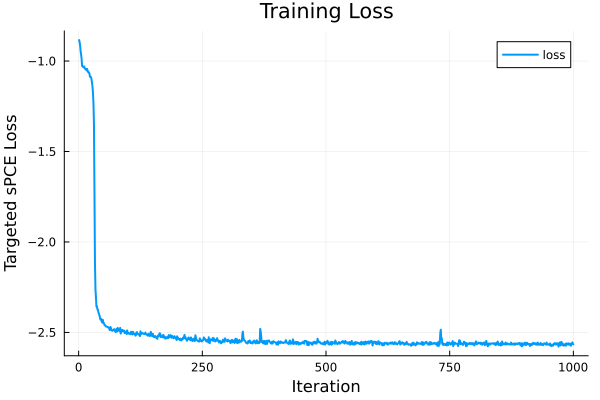
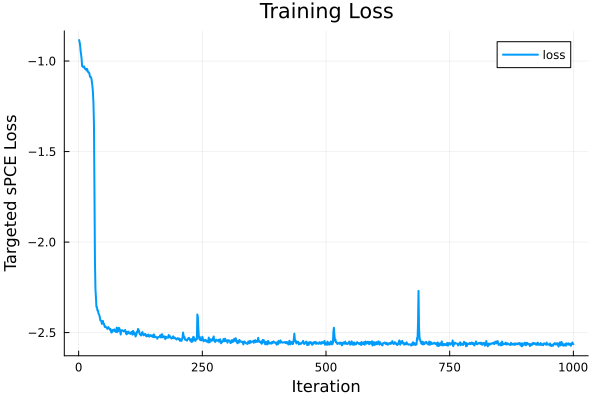
paper finalized except for monod and haldane

diff --git a/paper/main.tex b/paper/main.tex
@@ -5,7 +5,7 @@
 % Extended/compact toggle: pass \def\buildmode{cdc} or \def\buildmode{arxiv}
 % before \input{main}. Default (standalone build) is extended.
 \newif\ifextended
-\extendedtrue
+\extendedfalse
 \ifdefined\buildmode
   \def\buildmodecdc{cdc}
   \ifx\buildmode\buildmodecdc \extendedfalse \fi
@@ -36,7 +36,7 @@
 \begin{document}
 
 \title{Deep Adaptive Model-Based Design of Experiments\\
-\thanks{\ifextended Preliminary version. A six-page conference paper has been submitted to the 2026 IEEE Conference on Decision and Control (CDC). This extended version will be updated with final results.\else An extended version with proofs, training details, and ablation studies is available~\citep{strouwen2026extended}.\fi{} Code: \protect\url{https://github.com/arno-papers/CDC2026}.}
+\thanks{\ifextended This work has been submitted to the IEEE for possible publication. Copyright may be transferred without notice, after which this version may no longer be accessible. This is the extended version; a six-page conference paper has been submitted to the 2026 IEEE Conference on Decision and Control (CDC).\else An extended version with proofs, training details, and ablation studies is available~\citep{strouwen2026extended}.\fi{} Code: \protect\url{https://github.com/arno-papers/CDC2026}.}
 }
 
 \author{\IEEEauthorblockN{Arno Strouwen}
@@ -53,7 +53,7 @@ sebastian.mc95@proton.me}
 \maketitle
 
 \begin{abstract}
-Model-based design of experiments (MBDOE) is essential for efficient parameter estimation in nonlinear dynamical systems. However, conventional adaptive MBDOE requires costly posterior inference and design optimization between each experimental step, precluding real-time applications. We address this by combining Deep Adaptive Design (DAD), which amortizes sequential design into a neural network policy trained offline, with differentiable mechanistic models. For dynamical systems with known governing equations but uncertain parameters, we extend sequential contrastive training objectives to handle nuisance parameters and propose a transformer-based policy architecture that respects the temporal structure of dynamical systems. We demonstrate the approach on four systems of increasing complexity: a fed-batch bioreactor with Monod kinetics, a Haldane bioreactor with uncertain substrate inhibition, a two-compartment pharmacokinetic model with nuisance clearance parameters, and a DC motor for real-time deployment.
+Model-based design of experiments (MBDOE) is essential for efficient parameter estimation in nonlinear dynamical systems. However, conventional adaptive MBDOE requires costly posterior inference and design optimization between each experimental step, precluding real-time applications. We address this by combining Deep Adaptive Design (DAD), which amortizes sequential design into a neural network policy trained offline, with differentiable mechanistic models. For dynamical systems with known governing equations but uncertain parameters, we extend sequential contrastive training objectives to handle nuisance parameters and propose a transformer-based policy architecture that respects the temporal structure of dynamical systems. We demonstrate the approach on four systems of increasing complexity: a fed-batch bioreactor with Monod kinetics, a Haldane bioreactor with uncertain substrate inhibition, a two-compartment pharmacokinetic model with nuisance clearance parameters, and a DC motor for real-time deployment. On the Monod bioreactor, the adaptive policy reduces posterior RMSE by about 30\% versus the best static design; on the DC motor, it evaluates in $24~\mu$s per step versus $7.4~\mathrm{ms}$ for non-amortized adaptive design, enabling real-time deployment.
 \end{abstract}
 
 \begin{IEEEkeywords}
@@ -74,8 +74,8 @@ Our contributions are:
 \begin{itemize}
 \item We formulate adaptive MBDOE for dynamical systems where the model structure is known, training the policy end-to-end by differentiating through the ODE solver and observation model.
 \item We extend the sPCE bound to handle nuisance parameters, enabling targeted inference by marginalizing over nuisance parameters such as measurement noise.
-\item We introduce a transformer-based policy architecture that respects temporal ordering in dynamical systems, replacing the permutation-invariant deep set architecture of the original DAD framework.
-\item We demonstrate the methodology on four examples: a Monod bioreactor, a Haldane bioreactor with uncertain substrate inhibition, a pharmacokinetic model with nuisance adaptation, and a DC motor for real-time deployment.
+\item We retain the transformer-based policy architecture from DAD and adapt it to dynamical systems by making temporal order explicit through positional encoding, rather than treating design-outcome pairs as permutation invariant.
+\item We demonstrate the methodology on four examples: a Monod bioreactor, a Haldane bioreactor illustrating adaptation to target parameters, a pharmacokinetic model illustrating nuisance adaptation together with a brief architecture ablation, and a DC motor for real-time deployment; on the Monod bioreactor the adaptive policy reduces posterior RMSE by about 30\% relative to the best static design, and on the DC motor it evaluates in $24~\mu$s per step versus $7.4~\mathrm{ms}$ for non-amortized adaptive design.
 \end{itemize}
 
 \section{Model}
@@ -94,7 +94,6 @@ The observation noise covariance $\Sigma(x(t_k), \theta_N) \in \mathbb{R}^{q \ti
 We assume a fixed experimental schedule with known measurement times $0 < t_1 < \cdots < t_K$ and piecewise-constant inputs, $u(t)=u_k$ for $t \in [t_{k-1}, t_k)$.
 The design goal is to choose the input profile $u(t)$ (equivalently, the sequence $u_{1:K}$) to maximize the information gained about $\theta_T$.
 
-\label{sec:monod}
 We instantiate this framework on a well-mixed fed-batch bioreactor~\citep{versyck}, with state $x = (C_s, C_x, V)$, input $u = Q_{in}$, and kinetic parameters $\theta_T = (\mu_{\max}, K_s)$.
 We consider a $14$-hour experiment with measurements collected every hour, so $K=14$ and $t_k = k\,\mathrm{h}$ for $k=1,\ldots,K$ (with $t_0=0\,\mathrm{h}$).
 We choose a feed rate $Q_{in,k}$ that is held constant on $[(k-1)\,\mathrm{h}, k\,\mathrm{h})$.
@@ -136,20 +135,19 @@ This is equivalent to maximizing the targeted expected information gain (EIG), t
 The EIG is intractable to compute in general because $p(y|u)$ requires integrating over the full parameter space. Similarly, obtaining the posterior $p(\theta_T|y,u)$ requires the partial marginal likelihood $p(y|\theta_T,u) = \int p(y|\theta_T, \theta_N, u)\,p(\theta_N|\theta_T)\,d\theta_N$, which integrates over the nuisance parameters.
 
 The formulation above is a \emph{static} design: all inputs $u_{1:K}$ are chosen upfront by maximizing the EIG over the full trajectory.
-When $K$ experiments are conducted sequentially, however, one can do better.
-An \emph{adaptive} design instead selects $u_k$ after observing outcomes $y_{1:k-1}$, exploiting the information already gathered.
-The optimal adaptive criterion has a nested structure: the choice of $u_1$ anticipates that $u_2$ will be chosen optimally given $y_1$, which in turn anticipates optimal choice of $u_3$ given $y_{1:2}$, and so on. This is a dynamic programming problem over the space of possible observation sequences.
-The nested criterion is equivalent to optimizing over \emph{policies}---decision rules $\pi_k(h_{k-1})$ that map experimental histories to inputs\ifextended{} (see Appendix~\ref{sec:policy_equiv} for a formal proof)\fi. Once an optimal policy is available, online deployment requires only evaluating the decision rule at each step, avoiding repeated optimization during the experiment. For continuous observation spaces, tabular dynamic programming is infeasible; instead, the policy is parameterized by a neural network and trained offline via Monte Carlo simulation, as we do here.
+In sequential experiments, however, the design should adapt to past observations.
+We therefore optimize over \emph{policies}---decision rules $\pi_k(h_{k-1})$ that map the experimental history $h_{k-1} = ((u_1, y_1), \ldots, (u_{k-1}, y_{k-1}))$ to the next input $u_k$.
+This policy formulation is equivalent to the usual nested adaptive criterion.\ifextended{} See Appendix~\ref{sec:policy_equiv} for a formal proof. \else{} See the extended version~\citep{strouwen2026extended} for a formal proof. \fi
+Once an optimal policy is available, online deployment requires only evaluating the decision rule at each step, avoiding repeated optimization during the experiment. For continuous observation spaces, tabular dynamic programming is infeasible; instead, the policy is parameterized by a neural network and trained offline via Monte Carlo simulation, as we do here.
 
-Let $\theta = (\theta_T, \theta_N)$ denote all unknown parameters,
-$h_k = ((u_1, y_1), \ldots, (u_k, y_k))$ the experimental history, and $u_k = \pi(h_{k-1})$ the policy.
+Let $\theta = (\theta_T, \theta_N)$ denote all unknown parameters, $h_k = ((u_1, y_1), \ldots, (u_k, y_k))$ the experimental history, and $u_k = \pi(h_{k-1})$ the policy.
 The targeted EIG from the full sequential experiment is:
 \begin{equation}
 \mathcal{I}_K^{\text{tgt}}(\pi) = \E_{p(\theta)p(h_K|\theta,\pi)}\left[\log \frac{p(h_K|\theta_T,\pi)}{p(h_K|\pi)}\right] = I(\theta_T; h_K | \pi),
 \end{equation}
 where $p(h_K|\theta_T, \pi) = \int p(h_K|\theta, \pi)\, p(\theta_N|\theta_T) \, d\theta_N$ and $p(h_K|\pi) = \int p(h_K|\theta,\pi)\,p(\theta)\,d\theta$.
 
-Direct optimization of $\mathcal{I}_K^{\text{tgt}}(\pi)$ is intractable due to these marginals. \citet{foster2021} introduced sequential Prior Contrastive Estimation (sPCE), which uses contrastive samples to obtain a tractable lower bound on the sequential EIG. We extend their framework to handle nuisance parameters, yielding a bound on the targeted EIG.
+Direct optimization of $\mathcal{I}_K^{\text{tgt}}(\pi)$ is intractable due to these marginals. \citet{foster2021} introduced sequential Prior Contrastive Estimation (sPCE), which uses contrastive samples to obtain a tractable lower bound on the sequential EIG. We extend their framework to handle nuisance parameters, yielding a bound on the targeted EIG. Intuitively, the objective rewards policies whose induced histories make the true target parameters easier to distinguish from contrastive alternatives after marginalizing over nuisance uncertainty.
 
 \begin{theorem}[Targeted sPCE]
 \label{thm:targeted_spce_main}
@@ -167,7 +165,7 @@ Here $\phi$ denotes the trainable parameters of the policy network.
 The policy is trained offline; at deployment, computing $u_k$ requires only a forward pass.
 
 \subsection{Training}
-Training maximizes the targeted contrastive objective $\hat{\mathcal{L}}_K^{\text{tgt}}$ via stochastic gradient ascent with Adam on $\phi$. Since observations depend on $\phi$ through the policy, the expectation is over $\phi$-dependent random variables. For Gaussian observation models, we apply the reparameterization trick: writing $y_k = \mu_k + \Sigma_k^{1/2}\varepsilon_k$ with $\varepsilon_k \sim \mathcal{N}(0, I)$ independent of $\phi$ allows the gradient to pass inside the expectation:
+Training maximizes the targeted contrastive objective $\hat{\mathcal{L}}_K^{\text{tgt}}$ by stochastic gradient ascent with Adam on $\phi$. Since observations depend on $\phi$ through the policy, the expectation is over $\phi$-dependent random variables. For Gaussian observation models, we apply the reparameterization trick: writing $y_k = \mu_k + \Sigma_k^{1/2}\varepsilon_k$ with $\varepsilon_k \sim \mathcal{N}(0, I)$ independent of $\phi$ allows the gradient to pass inside the expectation:
 \begin{equation}
 \begin{aligned}
 \frac{d\hat{\mathcal{L}}_K^{\text{tgt}}}{d\phi}
@@ -180,7 +178,7 @@ p(h_K|\theta^{(\ell)}, \pi_\phi)\Big)
 \end{aligned}
 \end{equation}
 where the expectation is approximated with a minibatch of $B$ independent episodes (Algorithm~\ref{algo:DAD}).
-Each episode draws a ground-truth sample $\theta^{(0)} \sim p(\theta)$ that generates the trajectory, $L$ contrastive samples $\theta^{(1:L)} \sim p(\theta)$ for the denominator, and $M$ nuisance samples $\tilde{\theta}_N^{(1:M)} \sim p(\theta_N|\theta_T^{(0)})$ for the numerator---sharing the target parameters $\theta_T^{(0)}$ of the ground truth. Evaluating each likelihood in $A$ and $B$ requires a full ODE solve, giving $L + M + 2$ solves per episode.
+Each episode draws a ground-truth sample $\theta^{(0)} \sim p(\theta)$ that generates the trajectory, $L$ contrastive samples $\theta^{(1:L)} \sim p(\theta)$ for the denominator, and $M$ nuisance samples $\tilde{\theta}_N^{(1:M)} \sim p(\theta_N|\theta_T^{(0)})$ for the numerator, all sharing the target parameters $\theta_T^{(0)}$ of the ground truth. This requires $L + M + 2$ ODE solves per episode: one rollout to generate $h_K$, $M$ nuisance-conditioned likelihood evaluations for the numerator, and $L + 1$ likelihood evaluations for the denominator.
 
 \begin{algorithm}[t]
 \caption{Targeted Deep Adaptive Design for MBDOE}
@@ -213,13 +211,12 @@ Each episode draws a ground-truth sample $\theta^{(0)} \sim p(\theta)$ that gene
 \subsection{Choosing $L$, $M$, and $B$}
 The targeted sPCE objective depends on the number of contrastive samples $L$ and nuisance samples $M$, while the optimizer uses a minibatch size $B$ to form stochastic gradient estimates.
 These hyperparameters trade off bound tightness, estimator variance, and computational cost.
-We provide a brief discussion and asymptotic guidance under a fixed compute budget in
-\ifextended Appendix~\ref{sec:budget_stub}.\else the extended version~\citep{strouwen2026extended}.\fi
+\ifextended See Appendix~\ref{sec:budget_stub} for a brief discussion and asymptotic guidance under a fixed compute budget.\else{} See the extended version~\citep{strouwen2026extended} for a brief discussion and asymptotic guidance under a fixed compute budget.\fi
 
 \subsection{Network Architecture}
-The original DAD framework~\citep{foster2021} uses a deep set architecture that exploits permutation invariance of design-outcome pairs. However, for dynamical systems, temporal order matters: the state at step $k$ depends on all previous inputs and observations.
+Following DAD~\citep{foster2021}, we use a transformer-based policy architecture. For dynamical systems, however, the key additional requirement is to represent temporal order explicitly, since earlier inputs affect later states and therefore later observations.
 
-We therefore employ a transformer architecture~\citep{vaswani2017attention} with causal attention and sinusoidal positional encodings. The history $((u_1, y_1), \ldots, (u_{k-1}, y_{k-1}))$ is embedded as a sequence, and the policy outputs the next input based on the final hidden state:
+We therefore augment the history with sinusoidal positional encodings and use causal attention to map $((u_1, y_1), \ldots, (u_{k-1}, y_{k-1}))$ to the next input:
 \begin{equation}
 u_k = \pi_\phi(h_{k-1}) = F_{\phi_2}(\text{Transformer}_{\phi_1}(h_{k-1})),
 \end{equation}
@@ -242,7 +239,7 @@ We apply the framework to four systems of increasing complexity.
 
 \begin{table}[t]
 \centering
-\caption{Monod bioreactor: targeted sPCE scores (mean $\pm$ SEM, $n=500$; higher is better) and posterior RMSE ($\times 10^3$, $n=2000$; lower is better).\ifextended{} The BIM baseline is detailed in Appendix~\ref{sec:bim}.\else{} The BIM baseline is detailed in the extended version~\citep{strouwen2026extended}.\fi}
+\caption{Monod bioreactor: targeted sPCE scores (mean $\pm$ SEM, $n=1000$; higher is better) and posterior RMSE ($\times 10^3$, $n=5000$; lower is better).\ifextended{} The BIM baseline is detailed in Appendix~\ref{sec:bim}.\else{} The BIM baseline is detailed in the extended version~\citep{strouwen2026extended}.\fi}
 \label{tab:spce}
 \begin{tabular}{@{}lccc@{}}
 \hline
@@ -256,7 +253,7 @@ Design strategy & sPCE score & \multicolumn{2}{c}{RMSE ($\times 10^3$)} \\
 \begin{figure}[t]
 \centering
 \includegraphics[width=\columnwidth]{figures/monod_posterior.png}
-\caption{Posterior mean estimates ($\hat{\mu}_{\max}$, $\hat{K}_s$) across 2000 trials for three design strategies. Convex hulls indicate the spread of posterior means; the adaptive policy yields the most concentrated estimates around the true values.}
+\caption{Posterior mean estimates ($\hat{\mu}_{\max}$, $\hat{K}_s$) across 5000 trials for three design strategies. Convex hulls (90\% closest to median) indicate the spread of posterior means; the adaptive policy yields the most concentrated estimates around the true values.}
 \label{fig:posterior}
 \end{figure}
 
@@ -267,19 +264,12 @@ Design strategy & sPCE score & \multicolumn{2}{c}{RMSE ($\times 10^3$)} \\
 \label{fig:haldane}
 \end{figure*}
 
-\begin{figure*}[t]
-\centering
-\includegraphics[width=\textwidth]{figures/pharma_nuisance.png}
-\caption{PK model rollouts (20 per scenario, shared absorption parameters $k_a$, $k_{tr}$ at midrange). Blue: slow elimination ($CL = 1.0$~L/hr, $Q_d = 0.5$~L/hr); red: fast elimination ($CL = 5.0$~L/hr, $Q_d = 3.0$~L/hr). Left: central concentration $C_c = A_c/V_C$. Middle: peripheral concentration $C_p = A_p/V_P$. Right: infusion rate $R_\text{inf}$ (design). Under fast elimination, the policy doses earlier and more frequently to maintain informative drug levels; under slow elimination, drug persists longer and the policy delays dosing.}
-\label{fig:pharma}
-\end{figure*}
-
 \paragraph{Monod bioreactor.}
-The adaptive policy is trained on the Monod bioreactor (Section~\ref{sec:monod}) in approximately 1000 iterations\ifextended{} (Appendix~\ref{sec:training_details})\else{} (see the extended version~\citep{strouwen2026extended} for training details)\fi.
+The adaptive policy is trained on the Monod bioreactor in approximately 1000 iterations\ifextended{} (Appendix~\ref{sec:training_details})\else{} (see the extended version~\citep{strouwen2026extended} for training details)\fi.
 Fig.~\ref{fig:dynamics} shows representative rollouts: the adaptive policy varies its feed profile per rollout in response to observations, while the static designs apply a fixed sequence regardless of the outcome.
-Table~\ref{tab:spce} compares the adaptive policy against two static baselines---a classical Bayesian D-optimal design (BIM) and a static design optimized with the same sPCE objective. The adaptive policy significantly outperforms both on sPCE score ($p < 0.04$, paired $t$-tests) and reduces posterior RMSE by approximately 30\% relative to the best static design.
+Table~\ref{tab:spce} compares the adaptive policy against two static baselines---a classical Bayesian D-optimal design (BIM) and a static design optimized with the same sPCE objective. The adaptive policy significantly outperforms both on sPCE score ($p < 0.001$, paired $t$-tests) and reduces posterior RMSE by approximately 30\% relative to the best static design.
 Fig.~\ref{fig:posterior} confirms that the adaptive policy yields the most concentrated posterior estimates around the true parameter values.
-A handful of adaptive trials (7/2000, the outliers in Fig.~\ref{fig:posterior}) yield poor posteriors: rare misleading early observations steer the policy into producing no pumping action, driving substrate to zero---a guaranteed suboptimal design. A larger training budget would expose the policy to more such rare noise patterns and remedy this. All reported statistics include these trials without exclusion.
+A handful of adaptive trials (10/5000, the outliers in Fig.~\ref{fig:posterior}) yield poor posteriors: rare misleading early observations steer the policy into producing no pumping action, driving substrate to zero---a guaranteed suboptimal design. A larger training budget would expose the policy to more such rare noise patterns and remedy this. All reported statistics include these trials without exclusion.
 
 \paragraph{Haldane substrate inhibition.}
 This example shares the Monod bioreactor setup (same states, feed rate design $Q_{in}$, substrate observation $C_s$) but replaces the growth rate with Haldane kinetics: $\mu = \mu_{\max} C_s / (K_s + C_s + C_s^2/K_i)$, adding substrate inhibition. We set $\alpha = 1/K_i$ as the sole target with a uniform prior $\alpha \sim \text{Uniform}(0, 0.15)$, and treat $\mu_{\max}$, $K_s$, $\sigma$, $C_{x,0}$ as tightly bounded nuisance parameters (e.g., $\mu_{\max} \in [0.39, 0.41]$, $K_s \in [0.44, 0.46]$), so the sPCE objective focuses on discriminating whether inhibition is present ($\alpha = 0$ recovers Monod).
@@ -297,10 +287,17 @@ A two-compartment PK model with transit absorption describes drug distribution b
 \dot{A}_p &= \tfrac{Q_d}{V_C} A_c - \tfrac{Q_d}{V_P} A_p,
 \end{aligned}
 \end{equation}
-where $R_\text{inf}$ is the controllable infusion rate (design input). The target parameters are the absorption rates $\theta_T = (k_a, k_{tr})$, while $\theta_N = (CL, Q_d, \sigma_{\text{prop}}, \sigma_{\text{add}})$ are nuisance, including patient-specific clearance. The observation is central concentration $C_c = A_c/V_C$ with combined proportional and additive noise: $y_k \sim \mathcal{N}(C_c, (\sigma_{\text{prop}} C_c)^2 + \sigma_{\text{add}}^2)$,
-with uniform priors $k_a, k_{tr} \in [0.5, 3.0]$, $CL \in [1.0, 5.0]$, $Q_d \in [0.5, 3.0]$, $\sigma_{\text{prop}} \in [0.05, 0.20]$, and $\sigma_{\text{add}} \in [0.01, 0.10]$.
-Fig.~\ref{fig:pharma} shows the policy adapts its dosing schedule to the patient's elimination profile: fast elimination clears drug quickly, prompting earlier and more frequent doses to maintain informative concentrations, while slow elimination allows delayed dosing. This nuisance adaptation emerges from the targeted sPCE objective, which marginalizes over $(CL, Q_d)$ during training---the policy learns that the optimal schedule for probing absorption depends on how quickly the patient clears the drug.
-An architecture ablation on this example confirms both transformer components matter: removing positional encoding drops sPCE by $0.35$~nats ($t{=}12.1$); replacing attention with a comparably-sized MLP costs $0.03$~nats ($t{=}2.2$)\ifextended{} (Appendix~\ref{sec:ablation})\else{} (see the extended version~\citep{strouwen2026extended})\fi.
+where $R_\text{inf}$ is the controllable infusion rate (design input). The target parameters are the absorption rates $\theta_T = (k_a, k_{tr})$, while $\theta_N = (CL, Q_d, \sigma_{\text{prop}}, \sigma_{\text{add}})$ are nuisance, including patient-specific clearance. The observation is central concentration $C_c = A_c/V_C$ with combined proportional and additive noise: $y_k \sim \mathcal{N}(C_c, (\sigma_{\text{prop}} C_c)^2 + \sigma_{\text{add}}^2)$.
+We simulate a $24$-hour experiment with hourly observations ($K = 24$), using uniform priors $k_a, k_{tr} \in [0.5, 3.0]$, $CL \in [1.0, 5.0]$, $Q_d \in [0.5, 3.0]$, $\sigma_{\text{prop}} \in [0.05, 0.20]$, and $\sigma_{\text{add}} \in [0.01, 0.10]$.
+Fig.~\ref{fig:pharma} provides a qualitative illustration that nuisance parameters can materially change the optimal dosing schedule. After a common initial infusion pulse, the policy resumes dosing earlier under fast elimination and later under slow elimination, reflecting how quickly the drug is cleared. This nuisance adaptation emerges from the targeted sPCE objective, which marginalizes over $(CL, Q_d)$ during training, so the policy learns that the dosing schedule most informative for probing absorption depends on the elimination profile.
+A brief architecture ablation on this example suggests that explicit temporal encoding is the main architectural ingredient: removing positional encoding drops sPCE by $0.35$~nats ($t{=}12.1$), while replacing attention with a comparably-sized MLP causes a smaller drop of $0.03$~nats ($t{=}2.2$)\ifextended{} (Appendix~\ref{sec:ablation})\else{} (see the extended version~\citep{strouwen2026extended})\fi.
+
+\begin{figure*}[t]
+\centering
+\includegraphics[width=\textwidth]{figures/pharma_nuisance.png}
+\caption{PK model rollouts (20 per scenario, shared absorption parameters $k_a$, $k_{tr}$ at midrange). Blue: slow elimination ($CL = 1.0$~L/hr, $Q_d = 0.5$~L/hr); red: fast elimination ($CL = 5.0$~L/hr, $Q_d = 3.0$~L/hr). Left to right: central concentration $C_c = A_c/V_C$, peripheral concentration $C_p = A_p/V_P$, and infusion rate $R_\text{inf}$ (design). After a common initial infusion pulse, the policy resumes dosing earlier under fast elimination, whereas under slow elimination it delays redosing because the drug persists longer.}
+\label{fig:pharma}
+\end{figure*}
 
 \paragraph{DC motor.}
 A DC motor with state $(\omega, i)$ (angular velocity, current) follows
@@ -310,14 +307,14 @@ L \frac{di}{dt} = V_{in} - Ri - k\omega, \quad J \frac{d\omega}{dt} = ki - f\ome
 with known resistance $R = 0.5\,\Omega$ and inductance $L = 4.5\,$mH.
 The design input is voltage $V_{in} \in [0, 10]\,$V and the observation is angular velocity $\omega$ with additive Gaussian noise.
 The experiment lasts $100\,$ms ($K = 10$ steps at $\Delta t = 10\,$ms), with target parameters $\theta_T = (k, J)$ (motor constant, inertia), nuisance $\theta_N = (f, \sigma)$ (friction, noise), and uniform priors $k \in [0.3, 0.7]$, $J \in [0.01, 0.04]$, $f \in [0.005, 0.02]$, $\sigma \in [0.5, 2.0]$.
-We compare the amortized adaptive policy against an adaptive Bayesian D-optimal baseline that re-optimizes the design at each step using the current posterior (adaptive BIM).
-Table~\ref{tab:motor} shows that the amortized policy outperforms adaptive BIM on both sPCE score and posterior RMSE, while evaluating orders of magnitude faster: a single forward pass takes a median of $18\,\mu$s versus the seconds required for online posterior inference and re-optimization.
-Fig.~\ref{fig:timing} confirms that even the 99.9th percentile ($55\,\mu$s) remains $181\times$ below the $10\,$ms sampling interval, making real-time deployment feasible.
+We compare the amortized adaptive policy against an adaptive Bayesian D-optimal baseline that re-optimizes the design at each step using the current posterior mode (adaptive BIM)\ifextended{} (Appendix~\ref{sec:bim})\else{} (see the extended version~\citep{strouwen2026extended})\fi.
+Table~\ref{tab:motor} shows that the amortized policy outperforms adaptive BIM on both sPCE score and posterior RMSE. This is expected because the learned policy is trained against the full sequential objective, whereas adaptive BIM re-optimizes a myopic surrogate based on the current posterior mode. The amortized policy also evaluates orders of magnitude faster: a single forward pass takes a median of $24\,\mu$s versus $7.4\,$ms for online re-optimization.
+Fig.~\ref{fig:timing} confirms that even the 99.9th percentile ($79\,\mu$s) remains $126\times$ below the $10\,$ms sampling interval, making real-time deployment feasible.
 Note that this adaptive BIM baseline is already a deliberately simple strategy---myopic, with a Dirac posterior approximation and a 1D grid search---yet it already fails to run within the sampling interval by the later steps, as each FIM evaluation must differentiate through the growing history of design points.
 
 \begin{table}[t]
 \centering
-\caption{DC motor: adaptive sPCE policy vs.\ adaptive BIM (online re-optimization). sPCE scores (mean $\pm$ SEM; higher is better), posterior RMSE ($\times 10^3$; lower is better), and per-step wall time.}
+\caption{DC motor: adaptive sPCE policy vs.\ adaptive BIM (online re-optimization). sPCE scores (mean $\pm$ SEM, $n=500$; higher is better), posterior RMSE ($\times 10^3$, $n=500$; lower is better), and per-step wall time.}
 \label{tab:motor}
 \small
 \begin{tabular}{@{}lcccc@{}}
@@ -332,22 +329,18 @@ Note that this adaptive BIM baseline is already a deliberately simple strategy--
 \begin{figure}[t]
 \centering
 \includegraphics[width=\columnwidth]{figures/dcmotor_timing.png}
-\caption{Per-step computation time for the DC motor (500~rollouts). Boxes show IQR; whiskers span the 0.1--99.9th percentile. The adaptive BIM baseline (blue) requires online MAP estimation and grid search at each step, growing from ${\sim}1\,$ms at step~1 to ${\sim}10\,$ms by step~10 as the history lengthens---approaching and exceeding the $\Delta t = 10\,$ms sampling interval (dashed red). The amortized sPCE policy (purple) evaluates in ${\sim}22\,\mu$s regardless of step, remaining two orders of magnitude below real-time.}
+\caption{Per-step computation time (500~rollouts, single-threaded, AMD Ryzen~9 5900X). Boxes show IQR; whiskers the 0.1--99.9th percentile. Adaptive BIM (blue) grows from ${\sim}1\,$ms to ${\sim}13\,$ms, exceeding the $\Delta t = 10\,$ms sampling interval (dashed red). The amortized sPCE policy (purple) evaluates in ${\sim}24\,\mu$s regardless of step.}
 \label{fig:timing}
 \end{figure}
 
 \section{Conclusion}
 
 We have shown that combining deep adaptive design with differentiable mechanistic models enables real-time adaptive model-based design of experiments.
-The amortized policy outperforms static baselines and matches online re-optimization at a fraction of the computational cost, as demonstrated across four systems of increasing complexity.
+The amortized policy outperforms both static baselines and adaptive online re-optimization across four systems of increasing complexity.
 
-The policy is trained for a specific prior distribution; significant prior shifts require retraining.
-The current framework assumes the model structure is known---model misspecification is not addressed.
-Training requires GPU hours on a supercomputer, though deployment is lightweight (microseconds per forward pass).
-
-Combining the framework with our Bayesian model selection approach~\cite{strouwen2026modelselection} to handle model misspecification is a promising direction.
-Incorporating process noise via Bayesian filtering~\cite{strouwen2023adaptive} would further leverage the adaptive policy, as stochastic state drift makes real-time design adaptation particularly valuable.
-Deploying the trained policy on physical hardware with closed-loop feedback is a natural next step.
+Current limitations remain: the policy is trained for a specific prior distribution, significant prior shifts require retraining, model misspecification is not addressed, stochasticity is limited to the measurement equation, and training requires GPU hours on a supercomputer, although deployment is lightweight.
+Promising next steps are to combine the framework with Bayesian model selection~\cite{strouwen2026modelselection} for model uncertainty, extend the framework to process noise through Bayesian filtering~\cite{strouwen2023adaptive}, and deploy the learned policy on physical hardware with closed-loop feedback.
+Together, these extensions would move the framework closer to robust real-world adaptive experimentation.
 
 \section*{Acknowledgment}
 The resources and services used in this work were provided by the VSC (Flemish Supercomputer Center), funded by the Research Foundation -- Flanders (FWO) and the Flemish Government.

diff --git a/paper/tables/spce_table.tex b/paper/tables/spce_table.tex
@@ -1,4 +1,4 @@
-Adaptive policy & $\mathbf{3.10 \pm 0.05}$ & $\mathbf{3.1}$ & $\mathbf{24.9}$ \\
-Static (sPCE-opt) & $2.61 \pm 0.05$ & $5.5$ & $41.2$ \\
-Static (BIM) & $2.47 \pm 0.06$ & $4.5$ & $35.0$ \\
+Adaptive policy & $\mathbf{3.68 \pm 0.04}$ & $\mathbf{3.1}$ & $\mathbf{24.9}$ \\
+Static (sPCE-opt) & $3.34 \pm 0.04$ & $5.6$ & $41.5$ \\
+Static (BIM) & $3.45 \pm 0.04$ & $4.4$ & $34.3$ \\
 \hline
